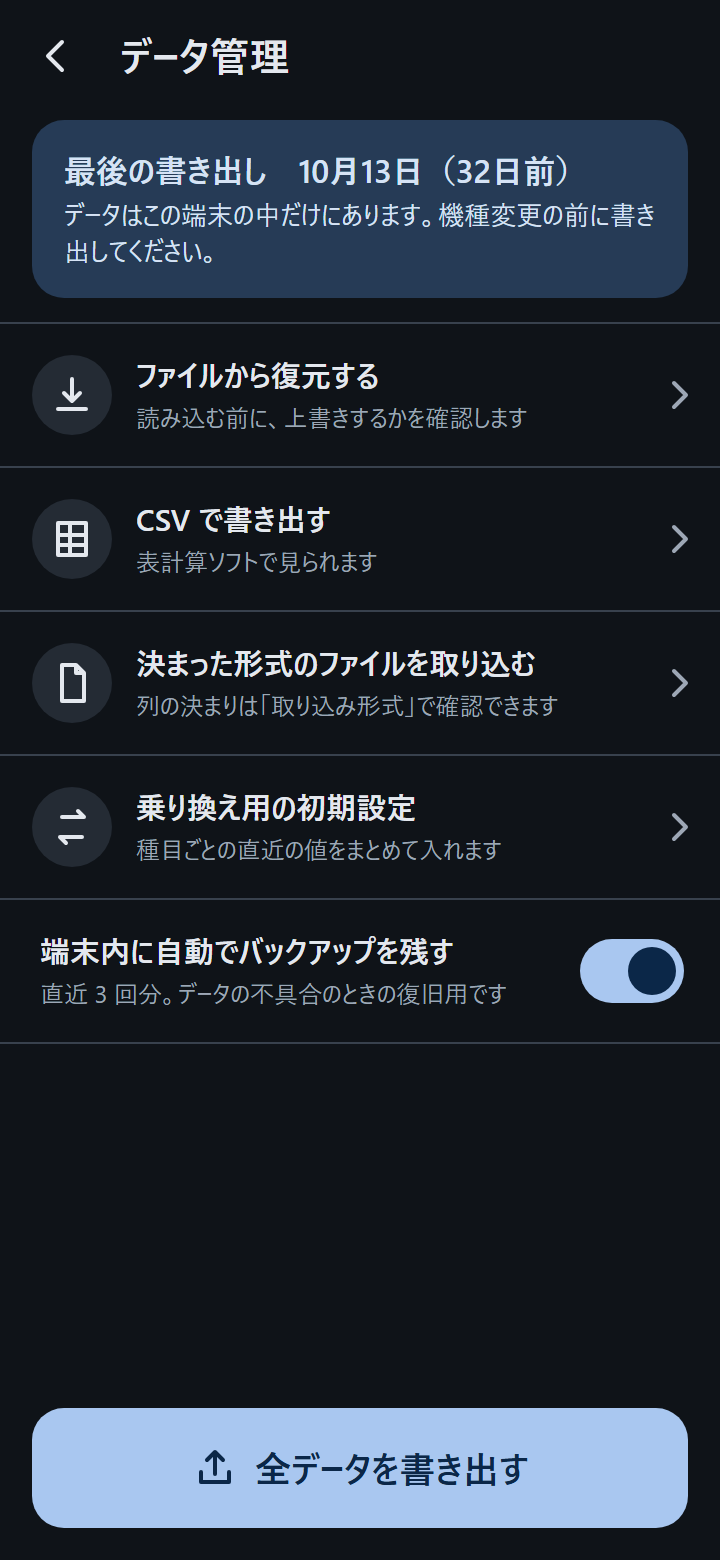
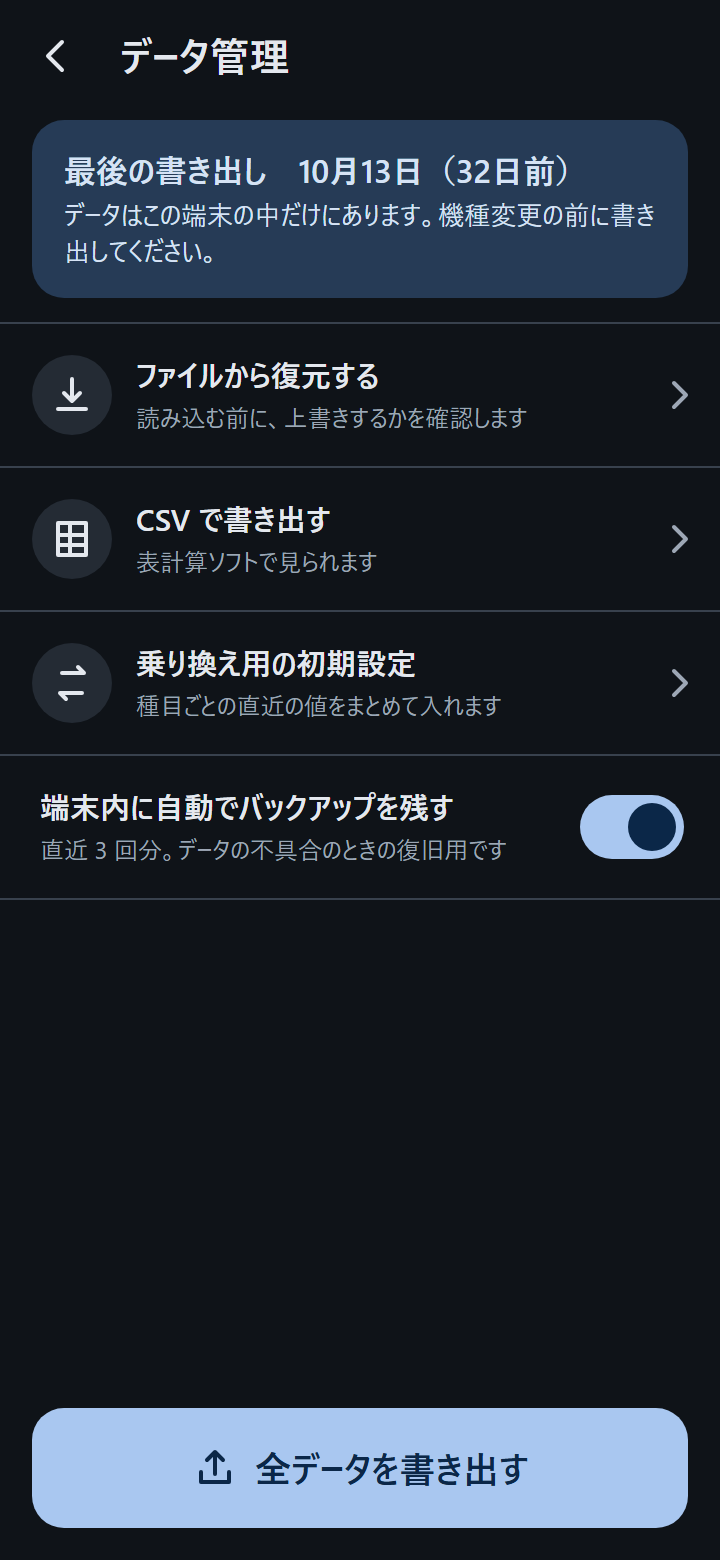
docs(apps/training-log): データ管理のデザインから、ファイルの取り込みを外す
要件定義 v1.8 で、CSV などのファイルの取り込みを見送ったので、データ管理の画面の
「決まった形式のファイルを取り込む」の行を消した。キャンバス（Claude Design）も同じに直した。
design/README.md が参照する要件定義の版を v1.8 にした。

diff --git a/apps/training-log/design/canvas/C10_data.dc.html b/apps/training-log/design/canvas/C10_data.dc.html
@@ -42,7 +42,6 @@ button{font:inherit;color:inherit;background:none;border:0;text-align:inherit;cu
   <symbol id="export" viewBox="0 0 24 24"><path d="M12 15V4M8 8l4-4 4 4M5 14v5h14v-5"></path></symbol>
   <symbol id="import" viewBox="0 0 24 24"><path d="M12 4v11M8 11l4 4 4-4M5 19h14"></path></symbol>
   <symbol id="table" viewBox="0 0 24 24"><path d="M5 4h14v16H5zM5 10h14M5 15h14M11 4v16"></path></symbol>
-  <symbol id="file" viewBox="0 0 24 24"><path d="M7 3h7l4 4v14H7zM14 3v4h4"></path></symbol>
   <symbol id="swap" viewBox="0 0 24 24"><path d="M7 7h11l-3-3M17 17H6l3 3"></path></symbol>
 </svg>
 <div class="app {{themeClass}}">
@@ -55,7 +54,6 @@ button{font:inherit;color:inherit;background:none;border:0;text-align:inherit;cu
     <div class="list">
       <button type="button" class="row"><span class="ic"><svg class="i" aria-hidden="true"><use href="#import"></use></svg></span><span class="t"><b>ファイルから復元する</b><small>読み込む前に、上書きするかを確認します</small></span><svg class="i sub" aria-hidden="true"><use href="#right"></use></svg></button>
       <button type="button" class="row"><span class="ic"><svg class="i" aria-hidden="true"><use href="#table"></use></svg></span><span class="t"><b>CSV で書き出す</b><small>表計算ソフトで見られます</small></span><svg class="i sub" aria-hidden="true"><use href="#right"></use></svg></button>
-      <button type="button" class="row"><span class="ic"><svg class="i" aria-hidden="true"><use href="#file"></use></svg></span><span class="t"><b>決まった形式のファイルを取り込む</b><small>列の決まりは「取り込み形式」で確認できます</small></span><svg class="i sub" aria-hidden="true"><use href="#right"></use></svg></button>
       <button type="button" class="row"><span class="ic"><svg class="i" aria-hidden="true"><use href="#swap"></use></svg></span><span class="t"><b>乗り換え用の初期設定</b><small>種目ごとの直近の値をまとめて入れます</small></span><svg class="i sub" aria-hidden="true"><use href="#right"></use></svg></button>
       <div class="row"><span class="t" style="padding-left:4px"><b>端末内に自動でバックアップを残す</b><small>直近 3 回分。データの不具合のときの復旧用です</small></span><button type="button" class="swb" role="switch" aria-checked="true" aria-label="自動バックアップ"><span class="sw"></span></button></div>
     </div>

diff --git a/apps/training-log/design/README.md b/apps/training-log/design/README.md
@@ -1,6 +1,6 @@
 # training-log 画面デザイン
 
-筋トレ記録アプリ（仮称 training-log）の画面デザインです。[要件定義](../docs/requirements.md)（v1.6）と[デザインの指示書](../docs/design-brief.md)をもとに、Claude Design で作りました。案C「ドック型」を採用しています。
+筋トレ記録アプリ（仮称 training-log）の画面デザインです。[要件定義](../docs/requirements.md)（v1.8）と[デザインの指示書](../docs/design-brief.md)をもとに、Claude Design で作りました。案C「ドック型」を採用しています。
 
 ## デザインの考え方
 
